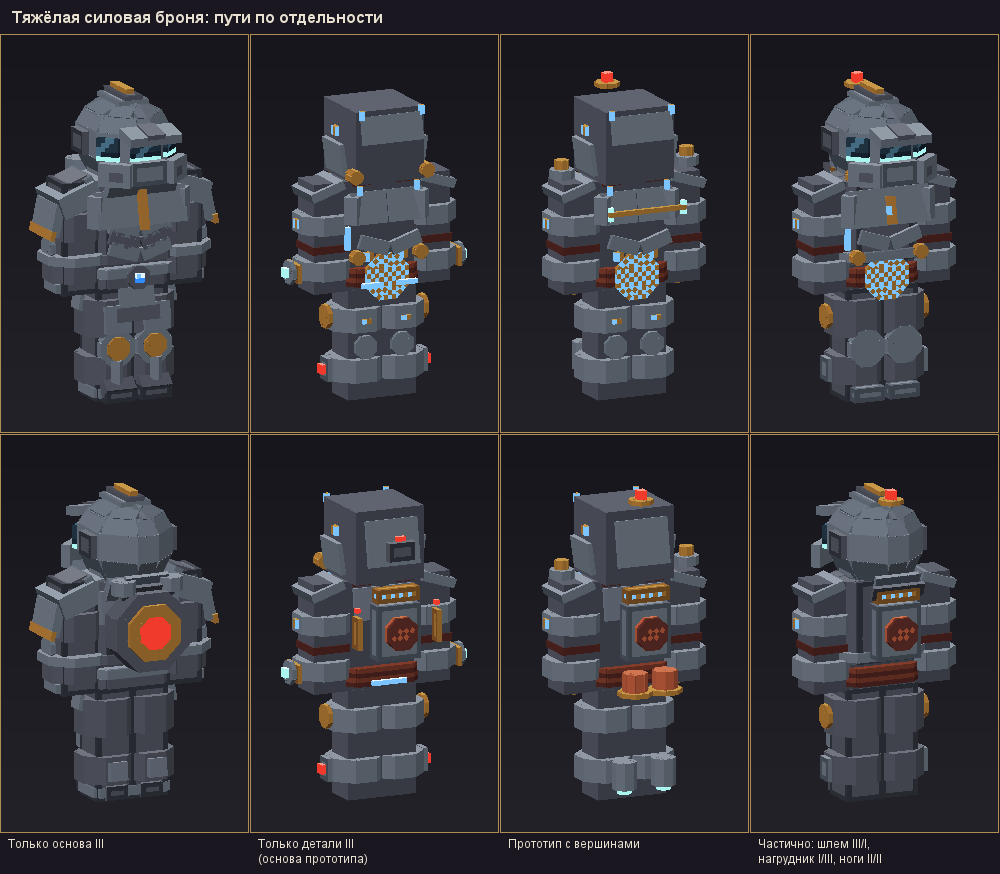
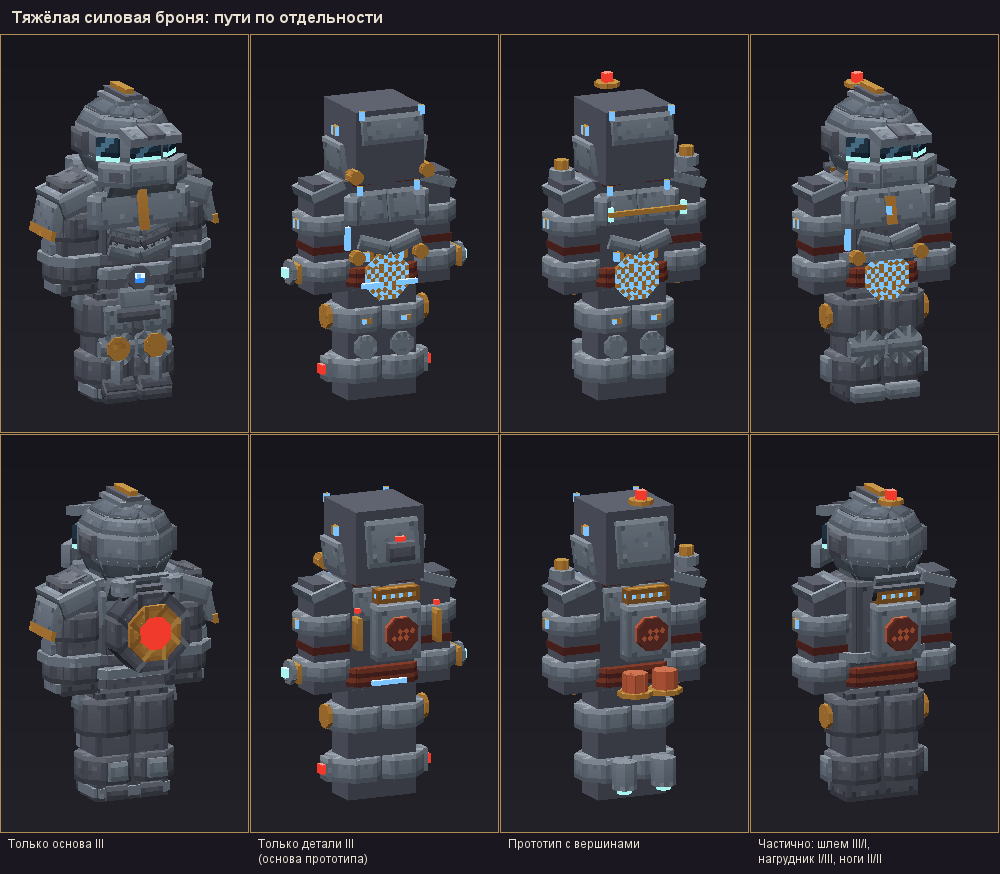
WIP: модели — раскраска плит брони: свет и тень по кромкам, заклёпки, потёртость

diff --git a/tools/models/GaussModel.java b/tools/models/GaussModel.java
@@ -166,6 +166,11 @@ public class GaussModel {
     static double GEO_SCALE = 1;
     /** Тон граней, смотрящих вперёд и назад. У брони перед — главный вид, он светлее. */
     static int FRONT_TONE = 3;
+    /**
+     * Раскраска плит брони: вместо тёмной обводки грани — свет по верхней кромке и тень по нижней,
+     * заклёпки в углах крупных граней и редкая потёртость. Включает генератор брони.
+     */
+    static boolean PLATES = false;
 
     static String cur;
 
@@ -614,11 +619,11 @@ public class GaussModel {
         glow[0] = false;
         switch (q.mat) {
             case GUNMETAL:
-                return tone(GUNMETAL, t);
+                return PLATES ? plate(q, GUNMETAL, base, side, a, b, A, B) : tone(GUNMETAL, t);
             case STEEL:
-                return tone(STEEL, t);
+                return PLATES ? plate(q, STEEL, base, side, a, b, A, B) : tone(STEEL, t);
             case BRASS:
-                return tone(BRASS, t);
+                return PLATES ? plate(q, BRASS, base, side, a, b, A, B) : tone(BRASS, t);
             case COPPER:
                 return tone(COPPER, t);
             case LEATHER:
@@ -724,6 +729,45 @@ public class GaussModel {
             default:
                 return 0xFF00FF;
         }
+    }
+
+    static int mix(int c1, int c2, double k) {
+        int r = (int) Math.round(((c1 >> 16) & 255) * (1 - k) + ((c2 >> 16) & 255) * k);
+        int g = (int) Math.round(((c1 >> 8) & 255) * (1 - k) + ((c2 >> 8) & 255) * k);
+        int b = (int) Math.round((c1 & 255) * (1 - k) + (c2 & 255) * k);
+        return (r << 16) | (g << 8) | b;
+    }
+
+    /** Тексель плиты брони: объём кромками, заклёпки, потёртость. a, b — место на грани, A, B — её размер. */
+    static int plate(Cube q, int[] pal, int base, boolean side, int a, int b, int A, int B) {
+        int color = tone(pal, base);
+        int light = tone(pal, base - 1), dark = tone(pal, base + 1);
+        if (!q.round && q.yaw == 0 && A >= 6 && B >= 6 && (a == 1 || a == A - 2) && (b == 1 || b == B - 2)) {
+            return mix(color, dark, 0.8);
+        }
+        if (Math.min(A, B) >= 3) {
+            if (b == B - 1) {
+                return mix(color, light, side ? 0.7 : 0.4);
+            }
+            if (b == 0) {
+                return mix(color, dark, side ? 0.7 : 0.4);
+            }
+            if (a == 0 || a == A - 1) {
+                return mix(color, dark, 0.3);
+            }
+        }
+        if (side && B >= 4) {
+            // Плавный переход сверху вниз: плита читается выпуклой.
+            color = mix(color, b * 2 >= B ? light : dark, 0.18 * Math.abs(2.0 * b / (B - 1) - 1));
+        }
+        int hash = (a * 73 + b * 151 + (int) Math.round(q.x * 7 + q.y * 13 + q.z * 29) * 31 + A * 17 + B * 5) & 0x7FFFFFFF;
+        if (hash % 29 == 0) {
+            return mix(color, light, 0.35);
+        }
+        if (hash % 37 == 0) {
+            return mix(color, dark, 0.3);
+        }
+        return color;
     }
 
     /** Прямоугольник грани в развёртке box-UV: {u, v, ширина, высота}. */

diff --git a/tools/models/ArmorModel.java b/tools/models/ArmorModel.java
@@ -587,6 +587,7 @@ public class ArmorModel extends GaussModel {
         CENTER = new double[]{0, 35, 0};
         GEO_SCALE = 0.5;
         FRONT_TONE = 2;
+        PLATES = true;
         buildArmor();
         pack();
         paintTextures();
